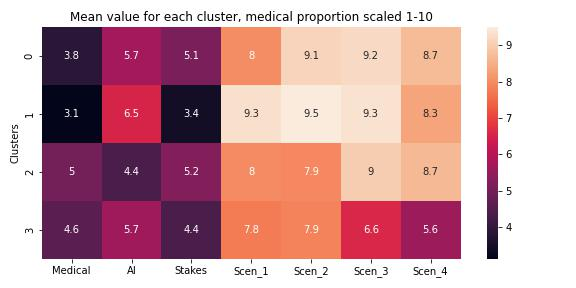
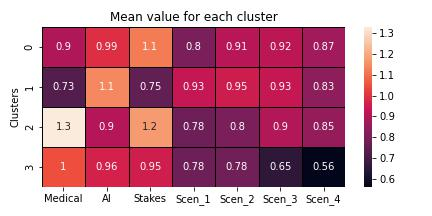
Fixed duplicated lib entry

diff --git a/elf.tex b/elf.tex
@@ -363,9 +363,66 @@ the ability of a model to be interpeof an AI tool refers to how well a human can
 
 % JE
 
-\subsection{Study 1}
-\subsubsection{Intention of Study} 
+% Brief overview/ intro to methods (survey & focus group) before going into more detail
+% Brief discussion of why the methods were chosen
+
+\begin{itemize}
+\item To evaluate.../ address the aims of this work... We conducted a two-part investigation.
+\item First, we collected qualitative survey data using a scenario-based questionnaire. Different AI-assisted decision making processes were described and presented, and participants rated their attitude towards them.
+\item (Brief reason why we chose to survey)
+\end{itemize}
+\begin{itemize}
+\item The survey was designed to identify whether there were trends in the attitudes of different groups of participants towards the presented AI systems. 
+\item To gain insight into the possible reasoning behind participants attitudes, and to help identify any issues with the survey itself, we conducted a follow-up study comprising group interviews in the style of a focus-group.
+\item The design of this focus group was influenced by the results of the survey, so that we could specifically interrogate key findings. 
+\item Details of these methods are outlined in this section. 
+\item For full details on the ethical considerations and approval for this work, please see Appendix.
+\end{itemize}
+
+% Could also discuss why we chose to do survey + focus group, and not design workshops, interviews etc.
+% DC
+
+\subsection{Study 1 - Scenario-based Survey }
+\subsubsection{Intention of Study (and Study Design)} 
 \label{study1_intentions}
+
+% It might make sense to separate some of these bullet points into a design section following the recruitment section.
+
+\begin{itemize}
+\item The intention of the survey study
+\item Groups of interest, how and why they were chosen
+\item Defining key terminology and concepts
+\end{itemize}
+\begin{itemize}
+\item High-stakes decision making (what it could mean, what we are interested in, how we could investigate it, the relevance of healthcare professionals)
+\item Trustworthiness and Trust
+\item Transparency and Interpretability
+\end{itemize}
+\begin{itemize}
+\item The difficulty of discussing and conveying these concepts (not precisely defined, not well understood, ongoing area of research)
+\item We decided to focus on some key concepts:
+\end{itemize}
+\begin{enumerate}
+\item A black-box AI system...
+\item A glass-box AI system... an idealised interpretable system... The mechanisms of which are well understood, and the system provides some level of explanation or information about how it came to a decision, or which aspects of the data were most important in the output decision.
+\item Presence or absence of Human-AI interaction... presented in the simplest case: A human decision maker who is capable of analysing the data and coming to their own decision also has access to the above AI systems. Since it is not specified otherwise, it may be assumed that the human and AI system analyse the data and come to a decision independently, at which point the human makes an executive decision to agree with or override the output of the AI system.  
+\end{enumerate}
+\begin{itemize}
+\item By leaving the concepts open to interpretation, we allow the participants to specify their attitudes relative to their knowledge, understanding, preconceptions or biases about AI systems. 
+\end{itemize}
+ 
+\begin{itemize}
+\item Defining scenarios which capture the aspects of AI systems we are interested in describing.
+\end{itemize}
+\begin{itemize}
+\item Participants will include AI/ML experts as well individuals with no working knowledge of AI/ML. 
+\begin{itemize}
+\item We wanted to keep the scenarios relatable and understandable for all participants. 
+\item We chose a healthcare scenario that we considered to be well understood by the public.
+\item We chose to describe the AI systems such as to only convey the core concepts relevant to transparency and interpretability, without discussion of the practicalities and efficacy of the methods in real world scenarios. 
+\end{itemize}
+\end{itemize}
+
 
 The intention of this study is to gather quantitative data on the level of trust participants place in computer-aided decision making tools (herein referred to as "the AI tool/model") based on the level of transparency of the AI model.
 
@@ -378,6 +435,30 @@ We consider trustworthiness on a scale where the lowest measure is "not at all" 
 \end{itemize}
 
 By gathering data from a group of participants on their level of trust in the decision-making process across these four levels of transparency we hope to establish, through investigation, whether any relationship exists. 
+
+\subsubsection{Recruitment and Ethics} 
+\label{study1_recruitment}
+\begin{itemize}
+\item Ethics considerations for recruitment
+\begin{itemize}
+\item All participants over the age of 18
+\item 
+\end{itemize}
+\item Groups of interest
+\item Specifying and Collecting Demographic Information
+\begin{itemize}
+\item No personal identifiable 
+\end{itemize}
+\item Method of recruitment (how were participants recruited, and where were they recruited from)
+\item Limitations of recruitment method
+\begin{itemize}
+\item Limited demographic data collection (anonymity of participants was prioritised)
+\item 
+\end{itemize}
+\end{itemize}
+
+
+
 
 % add details on how we requited participants, how many responded and where from.
 
@@ -457,10 +538,11 @@ Highlight the use of covid diagnosis makes people apply the risk to themselves. 
 Split into Study one and Study two.
 How did we pick the 5 people from the focus group
 
+\section{Survey Results}
 
-\subsection{Data}
+%\subsection{Data}
 
-\subsection{Additional Features}
+
 
 The survey was closed after XXX days, with XXX participants. We use the two key profile features - AI experience level and whether the participant is a medical professional - to dis-aggregate into three demographic bins:
 
@@ -469,6 +551,8 @@ The survey was closed after XXX days, with XXX participants. We use the two key 
     \item AI Expert: Not a medical professional, and AI experience level reported as $\geq XXX$
     \item Public: Neither a medical professional nor an AI expert
 \end{itemize}
+
+\subsection{Additional Features}
 
 We use the results of the first scenario, the trust in the doctor with no AI component $T_D$, as a baseline to assess the impact of AI-cooperation on diagnosis trust levels. We denote the trust level reported in these cooperative scenarios based on the nature of their model. Scenario two, with the interpretable or "glass box'' model is $T_{GB}$, and scenario three with the "black box'' model $T_{BB}$.
 
@@ -483,7 +567,7 @@ These features allow analysis of whether participants view the cooperative use o
 \begin{figure}[h!]
     \centering
     \includegraphics[width=\textwidth]{graphics/Doctor_improvements_cooperation_scatter.jpg}
-    \caption{\centering Perceived improvements in trust in scenarios 3 and 4, with Gaussian Kernel Density Estimates for added clarity. Percentages are calculated using $\leq 0$ and $>0$ basis.\hspace{\textwidth} Interpretation schema: \textbf{A}: Black box improves diagnosis, glass box makes diagnosis worse \hspace{\textwidth} \textbf{B}: Both glass box and black box improve diagnosis. \textbf{$B_1$} black box is preferred, \textbf{$B_2$} glass box is preferred, $B_3$ neither is preferred. \textbf{C}: Neither glass box or black box improve diagnosis \textbf{D}: Glass box improves diagnosis, black box makes diagnosis worse}
+    \caption{\centering Perceived improvements in trust in scenarios 3 and 4. Gaussian Kernel Density Estimates of the samples are included for visualisation clarity. Percentages are calculated using $\leq 0$ and $>0$ basis.\hspace{\textwidth} Interpretation schema: \textbf{A}: Black box improves diagnosis, glass box makes diagnosis worse \hspace{\textwidth} \textbf{B}: Both glass box and black box improve diagnosis. \textbf{$B_1$} black box is preferred, \textbf{$B_2$} glass box is preferred, $B_3$ neither is preferred. \textbf{C}: Neither glass box nor black box improve diagnosis \textbf{D}: Glass box improves diagnosis, black box makes diagnosis worse}
     \label{fig:improvement}
 \end{figure}
 
@@ -491,35 +575,72 @@ Through Figure \ref{fig:improvement} we derive how different cohorts view the us
 
 Only a minority of each cohort view neither AI-cooperative scenario as beneficial. In all cohorts the glass box model is preferred over the black box model, but only by a small margin, with ratios $f_{BB}:f_{GB}$ of 1:1.17, 1:1.125 and 1:1.40 for the public, medical professionals and AI experts respectively. 
 
-\subsection{Correlation Analysis}
+%\subsection{Correlation Analysis}
 
 \subsection{Clustering}
 
-Insights can be gained into the results of the survey by applying unsupervised methods. These do not rely on any labels or targets, as would be the case in supervised or semi-supervised methods, so avoid many of the biases that such methods would carry. In particular we apply Uniform Manifold Approximation and Projection (UMAP) \cite{McInnes2018} as dimensionality reduction, then Hierachical Density-Based Spatial Clustering And Noise (HDBSCAN) \cite{McInnes2018} as unsupervised clustering on the resulting UMAP embedding. 
+Having disaggregated into profiling features, then analysed the trust levels of these cohorts, we can instead do the opposite. By starting with trust levels and finding distinct groups of how they are distributed, we can construct cohorts based on trust levels, then use profiling features to find the characteristics of these groups.
+
+Insights can be gained into the results of the survey by applying unsupervised methods. These do not rely on any labels or targets, as would be the case in supervised or semi-supervised methods, so avoid many of the biases that such methods would carry. In particular we apply Uniform Manifold Approximation and Projection (UMAP) \cite{McInnes2018} as dimensionality reduction, then Hierachical Density-Based Spatial Clustering And Noise (HDBSCAN) \cite{McInnes2017} as unsupervised clustering on the resulting UMAP embedding. 
 
 UMAP makes the assumption that data is distributed on a uniform manifold, but that the data-space is warped. Using this assumption local distance metrics are learnt, then used to construct a distance graph of the data. A lower-dimensional embedding is then formed, which aims to conserve the form of the high-dimensional space, using a stochastic graph layout. HDBSCAN, similarly, constructs a minimum spanning tree based on distances in the data-space, then applies various sub-algorithms to find clusters. Full explanation of these algorithms is beyond the scope of this work, so the reader should consult the relevant papers for more information.
 
-We apply UMAP, then HDBSCAN to the resulting embedding, and present the results in Figures \ref{fig:embedding}, \ref{fig:cluster_means}.
-
+We apply UMAP, then HDBSCAN to the resulting embedding, and present the results in Figures \ref{fig:embedding}, \ref{fig:cluster_means}. UMAP produces four distinct clusters, which are recognised by HDBSCAN. 
 
 \begin{figure}
 \centering
-\begin{subfigure}{0.4\textwidth}
+\begin{subfigure}{0.5\textwidth}
   \centering
   \includegraphics[width=\linewidth]{graphics/UMAP_HDBSCAN.jpg}
   \caption{}
 %   \caption{The UMAP embedding produces four (visually) distinct clusters, which are also identified by HDBSCAN.}
   \label{fig:embedding}
 \end{subfigure}%
-\begin{subfigure}{0.65\textwidth}
+\begin{subfigure}{0.55\textwidth}
   \centering
   \includegraphics[width=\linewidth]{graphics/clustering_means.jpg}
   \caption{Cluster means across all four scenarios, along with profiling features.}
   \label{fig:cluster_means}
 \end{subfigure}
-\caption{The results of unsupervised clustering with UMAP and HDBSCAN.}
+\caption{The results of unsupervised clustering with UMAP and HDBSCAN. In Figure \ref{fig:cluster_means} profile features (AI, Medical, Stakes) are normalised by the whole population. Scenario trust levels are moved to a scale [0-1] for greater clarity in the heatmapping.}
 \label{fig:test}
 \end{figure}
+
+The clusters identified by this process are distinct in how the participants within them rated trust in the different scenarios. Clusters 1 and 3 follow the same trend, with the highest trust in the glass-box cooperative scenario, and lowest in the solo black-box. However, cluster 3 has significantly lower trusts across all scenarios. Cluster 3 is significantly larger than the other clusters, representing 64\% of the participant pool.
+
+Clusters 0 and 2 have the lowest level of trust placed in the doctor, with the solo black-box scenario scoring higher, in contrast to the opposite relationship in clusters 1 and 3. In both cluster 0 and 2 the highest trust is in the black-box cooperative scenario. Cluster 2 is the only cluster in which the glass-box cooperative scores lower than the solo doctor.
+
+This analysis of only prescribed trusts leads to an intuitive split: In evaluating the compromise between transparency and efficacy, those in clusters 0 and 2 prescribe more weight to efficacy, and those in clusters 1 and 3 weight transparency over efficacy. Those in cluster 0 are perhaps closer to even balancing of transparency and efficacy than those in cluster 2, as shown by their higher trust levels in the glass-box scenario.
+
+Cluster 1 probably represents our population of AI researchers - high average AI knowledge, but low stakes decision making and a small medical proportion. These participants rate any doctor-lead scenario highly, and only show a significant decrease in trust when a doctor is not presented as making the final decision, as in scenario 4.
+
+Cluster 2, which leans the most towards following efficacy statistics, has the highest proportion of both medics and high-stakes decision makers. This might indicate that the cluster is composed principally of medical professionals, who are likely to rate themselves as more frequently making high-stakes decisions. This would also explain why this cluster has the lowest average self-reported AI knowledge compared to the whole survey population.
+
+Clusters 0 and 3 are less easily identified, but might represent different subsets of the general population. Cluster 0 has a higher self-reported stake level, but a lower than average medic proportion, so might represent high-stakes decision makers from outside the medical field. Cluster 3 is very close to the average in all three of our profiling features, and is the largest, so could be said to represent the public, or the equivalent for our participant pool.
+
+\subsection{Notes on results for discussions:}
+
+\subsubsection{Cooperation:}
+\begin{itemize}
+    \item AI experts like the AI cooperation scenarios most - 60\% have higher trust than in doctor
+    \item If you like the black box, you also like the glass box, and very few in any population only like the black box
+    \item AI experts have the smallest proportion liking the glass box and disliking the black box
+    \item Disliking both glass box and black box follows AI technical level: Public $\rightarrow$ Medics $\rightarrow$ AI
+\end{itemize}
+
+\subsubsection{Clustering:}
+\begin{itemize}
+    \item Clustering isolates medics and AI researchers
+    \item AI researchers follow what we'd expect: they trust AI the most, but weight towards transparency over efficacy, and don't like the black-box working solo
+    \item Medics weight heavily towards efficacy, but still rate a doctor having the final decision higher than the black box by itself
+    \item General population is split into low/high stakes
+    \item High-stakes genpop are less scared of AI, and seem to weight efficacy and transparency equally important, but still want a human final decision
+    \item Low-stakes genpop (the actual public?) are scared of AI, especially when its not transparent. They don't like the Terminator doctor, sorry Arnold.
+\end{itemize}
+
+
+
+
 
 
 \subsection{Brainstorm}
@@ -796,9 +917,134 @@ Acknowledgments
 
 \section{Optional Supplementary Material}
 
-\subsection{Part One}
+\subsection{Study Ethics}
 
-\subsection{Part Two}
+% DC - Need to go through and format, I've been working in a google doc
+% How do I add line space after subsubheading?
+\subsubsection{Organisation and Funding}
+
+
+This work was organised and funded by The University of Bristol School of Computer Science, Electrical and Electronic Engineering, and Engineering Maths.
+
+Investigators are students enrolled on the “Interactive Artificial Intelligence CDT” at the University of Bristol, and are funded by UKRI Studentships.
+
+This work was completed as part of a University course “Interaction Design COMSM0087”, led by Dr Paul Marshall.
+
+
+\subsubsection{Ethical Approval} 
+
+
+Ethical approval for study methods described in Section [?] of the report was granted by University of Bristol Faculty of Engineering Research Ethics committee prior to study recruitment.
+
+The study has been reviewed by the unit director, Dr Paul Marshall.
+
+The risks associated with participating in the study were assessed as low likelihood and low severity. 
+
+\subsubsection{Incentive}  
+
+
+At the recruitment stage, prospective participants were told that there would be a monetary incentive for participation.
+
+For participation in the survey, this was the option to be entered into a raffle to win one of four Amazon gift vouchers worth £25 each.
+
+To facilitate this, participants could opt in to the raffle by providing an email address, which was stored securely on a University server. 
+
+Email addresses were stored separately from survey responses to prevent any reassociated. 
+
+At the time that the survey was closed to new participants, four email addresses were selected at random to receive the vouchers.
+
+Once the selected participants had confirmed they received the vouchers, all email addresses were promptly deleted. 
+
+
+
+\subsubsection{Privacy and Data Management}  
+
+
+Survey:
+No personal identifiable information was collected during the survey phase of this work.
+
+Survey data was collected via Microsoft Forms, and stored on a secure server hosted by the University of Bristol.
+
+Participants had the option of providing an email address to opt into a raffle to win a monetary prize. 
+This email address was not associated with their survey response, and was used only to send the prize to the relevant participants. 
+Email addresses were stored on a secure University of Bristol server and deleted after prizes were allocated.  
+
+Focus Group:
+The focus-group was conducted remotely via Zoom online video conferencing. 
+
+The focus-group was recorded for the purpose of transcribing the discussion, and was deleted when the audio had been transcribed. 
+
+All audio transcriptions were pseudonymised prior to analysis.
+
+All data gathered for this work (survey responses, email addresses, focus-group audio, transcript) was stored on a secure University of Bristol server. 
+
+\subsubsection{Recruitment:}  
+
+
+The total number of survey participants was [XXXX] at the time of closing.
+Survey participants were recruited by:
+Direct contact
+Sharing the survey with personal contacts
+Mailbases 
+Survey was sent to the directors of the following University programs to be  distributed to the students:
+[Which programmes?]
+The survey was posted in a medical physics and engineering special interest mailing group: JISCMAIL Medical-Physics-Engineering 
+Social media
+The survey was distributed through personal Twitter accounts.
+Participation was open to all members of the public, however recruitment was targeted towards three groups: healthcare professionals, AI/ML specialists, and general public. The studies population is not therefore reflective of a cross-section of the general public or specific demographic groups. 
+No demographic information relating to protected characteristics was collected. 
+The only objective information requested from participants was whether or not they work as a healthcare professional. 
+Six focus-group participants were recruited from personal contacts. 
+
+\subsubsection{Informed Consent Survey}  
+
+
+Written consent was obtained for the survey study…
+A participant information sheet was presented at the start of the survey. Participants were required to confirm that they have read the information sheet before progressing with the survey to ensure informed consent as much as was reasonably practicable. 
+I.e. “By clicking "Next" you confirm that you've read the full information about this study and consent to participate.”
+The participant information sheet included:
+Background about the project and project organisers.
+The purpose of the study
+Reason participants have been recruited. 
+Eligibility criteria
+Details of participation:
+Emphasis that participation is voluntary
+Emphasis that participant can choose to withdraw from the study (relevant to focus group).
+Description of how data will be managed and used.
+Details of incentive.
+Details of confidentiality. 
+Emphasis that no personally identifiable information is recorded in the survey. 
+Right to withdrawal.
+Contact details for asking questions. 
+Intended outcomes of the research project.
+Eligibility criteria i.e. requirements for participation as specified in the information sheet include:
+Participant is over 18 years old
+Participant has internet access to participate in online data collection
+
+ 
+\subsubsection{Informed Consent Focus-Group}  
+
+
+Participants were sent an information sheet directly, and asked to confirm they had read and understood the provided information prior to the event.
+
+At the start of the focus group session, participants were given the opportunity to say if they had not read or understood the provided information, or if they had any concerns they wanted to raise. 
+
+\subsubsection{Other}  
+
+
+
+%Check notes from other group
+%Check any other comments/document related to ethics
+%So far, I've mostly just looked at the ethical approval document and the details from our information sheet.
+
+
+% DC - Need to go through and format, I've been working in a google doc
+% How do I add line space after subsubheading?
+
+
+\subsection{Part Two}  
+
+
 
 
 \end{document}
